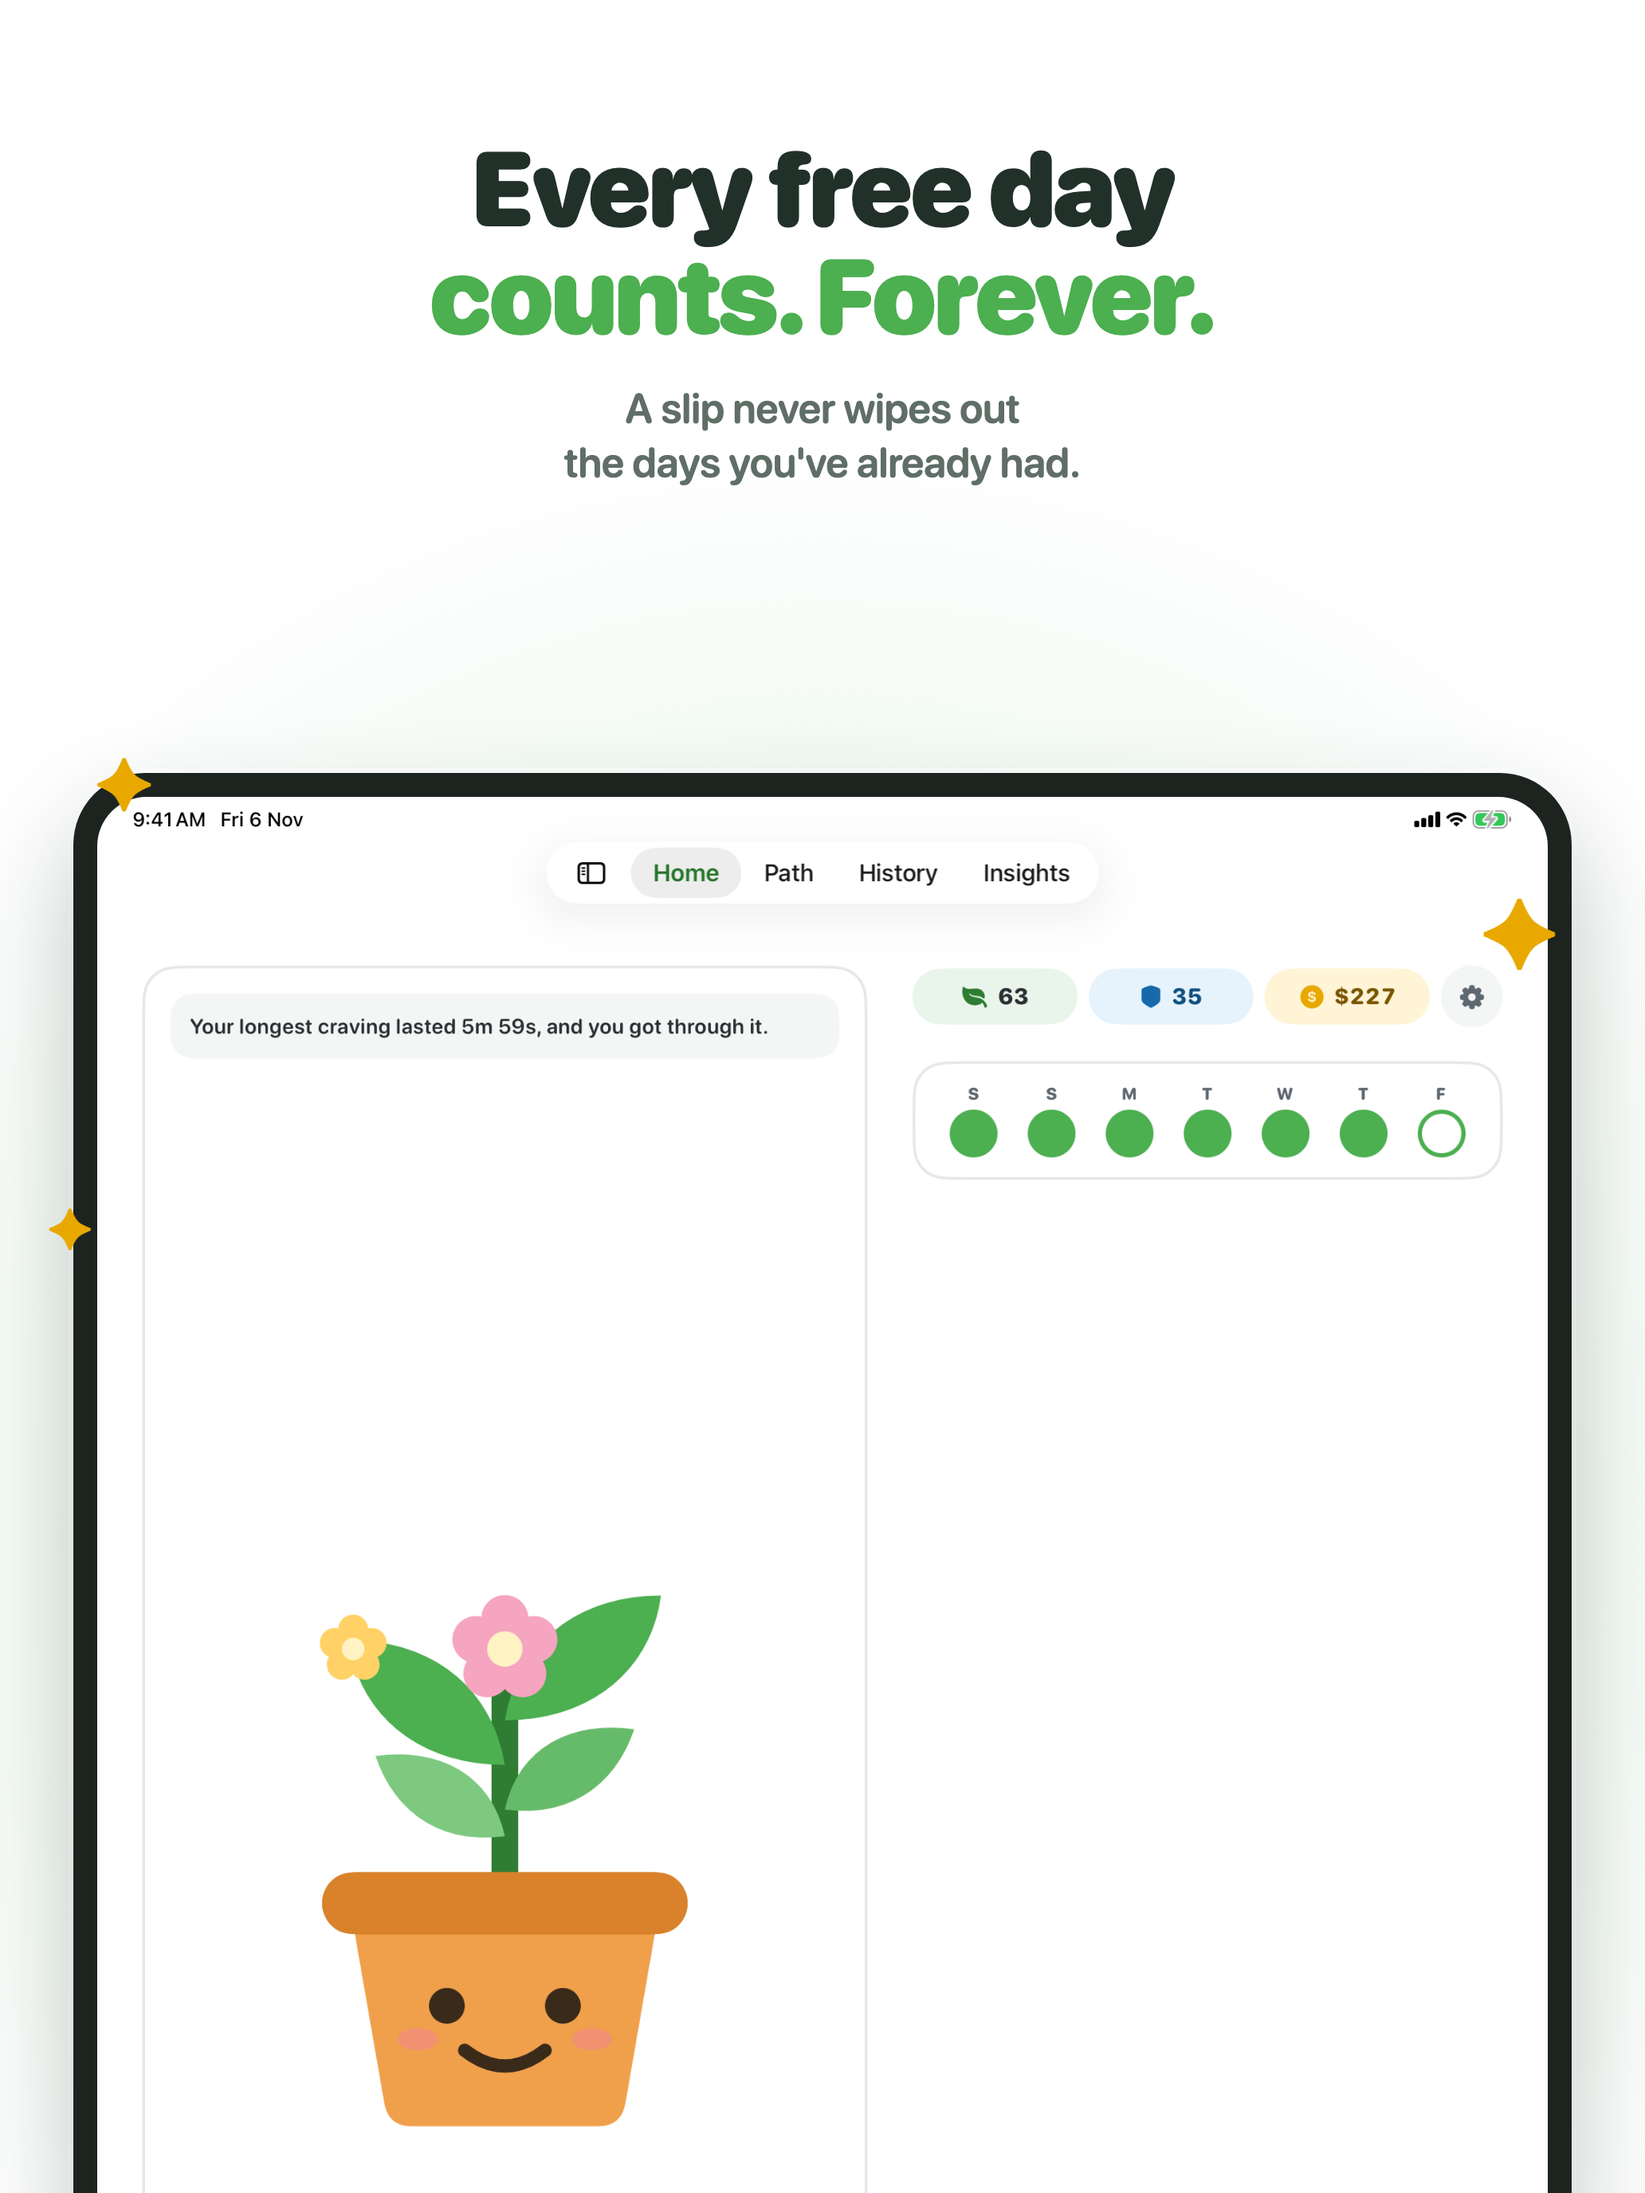
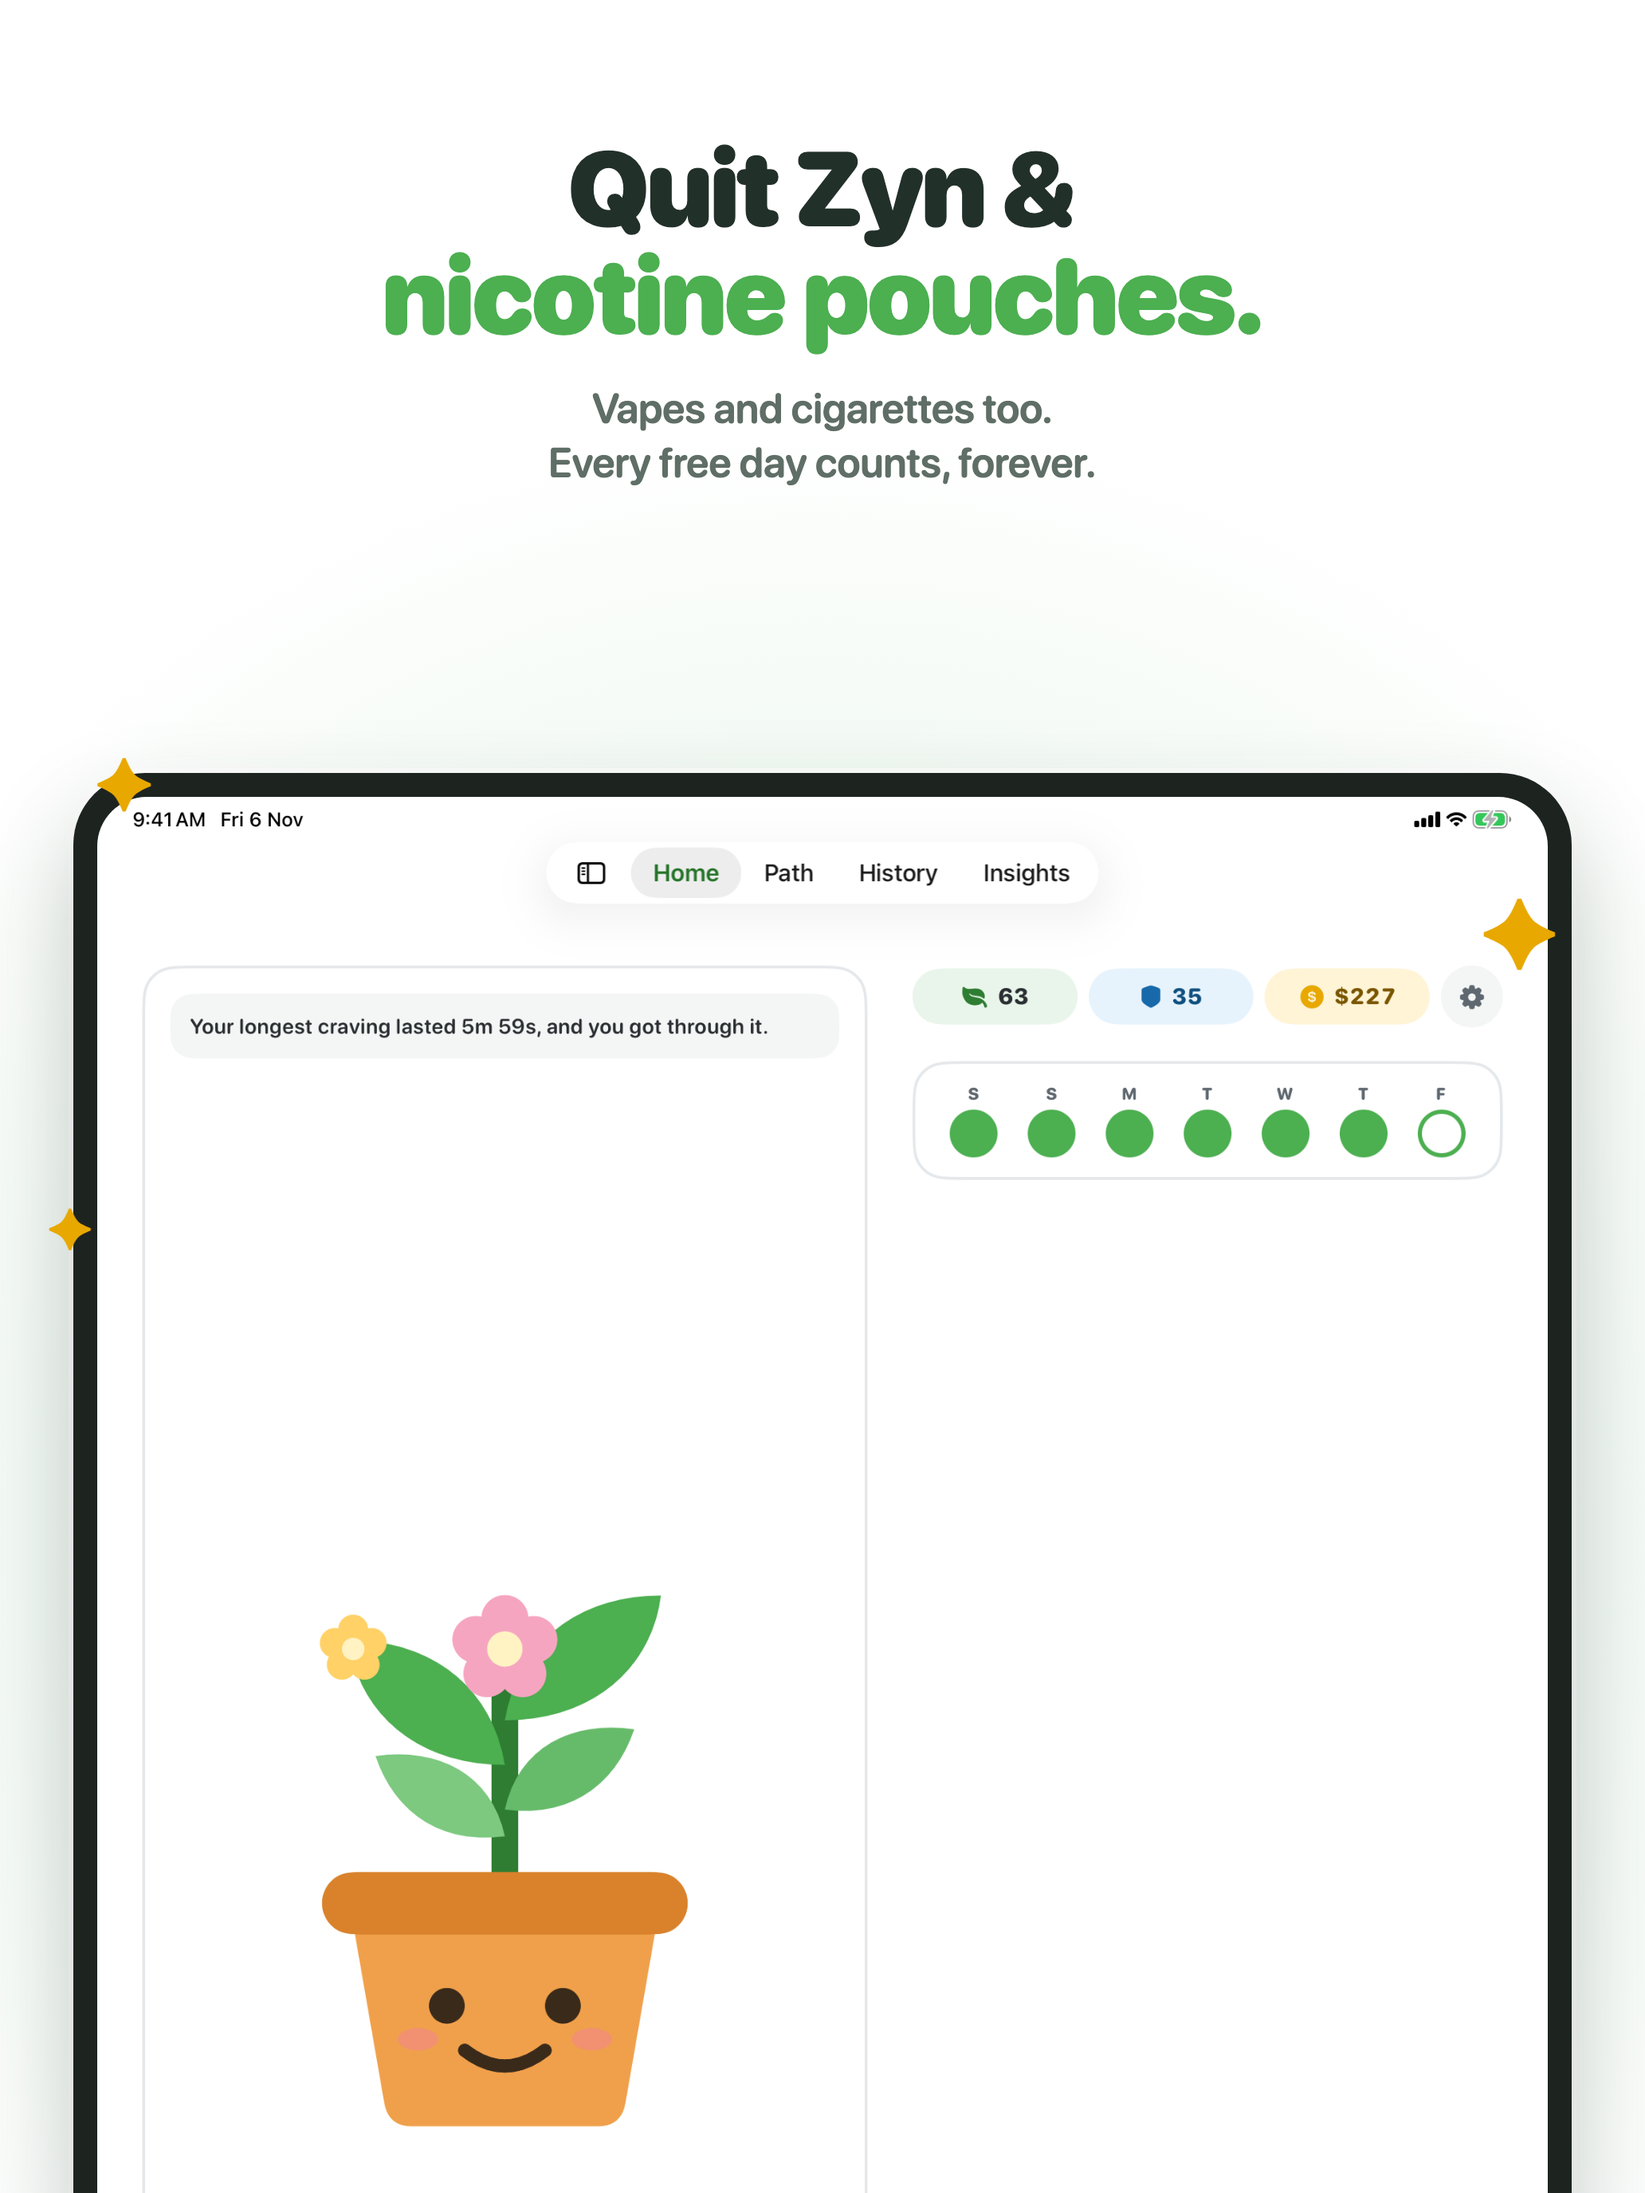
Screenshots: pouch-first captions, no subscription third, slip frame added
Frame 1 leads with Zyn and nicotine pouches to match the new name. One purchase, no
subscription moves into the first three, which search results show. The slip screen, the
app's clearest difference from streak counters, becomes frame 4. Seven frames, up from six.

Changed region(s): [[0.2171, 0.0625, 0.7752, 0.2188]]

diff --git a/screenshots/source/frames.html b/screenshots/source/frames.html
@@ -2,8 +2,8 @@
 <html><head><meta charset="utf-8">
 <!--
   NicFree App Store screenshots. One frame per render:
-    frames.html?f=1..6            iPhone, 1320 x 2868 (6.9"); render at 1206 x 2622 with zoom for 6.3"
-    frames.html?f=1..6&d=ipad     iPad, 2064 x 2752 (13")
+    frames.html?f=1..7            iPhone, 1320 x 2868 (6.9"); render at 1206 x 2622 with zoom for 6.3"
+    frames.html?f=1..7&d=ipad     iPad, 2064 x 2752 (13")
   Captures come from tools/screenshots.sh (cap/iphone-*.png, cap/ipad-*.png); art from
   tools/store-art.sh (art/*.png). Rendered with headless Chrome by tools/store-frames.sh.
 -->
@@ -41,11 +41,11 @@
 </style></head>
 <body>
 
-<!-- 1. The hero number -->
+<!-- 1. Pouch first: matches the search, then the promise -->
 <div class="frame" id="f1" style="background:radial-gradient(circle at 50% 70%, #DDF3E2 0, #EEF8F0 36%, #FFFFFF 64%);">
   <div class="head">
-    <h1>Every free day<br><em>counts. Forever.</em></h1>
-    <div class="sub">A slip never wipes out<br>the days you've already had.</div>
+    <h1>Quit Zyn &amp;<br><em>nicotine pouches.</em></h1>
+    <div class="sub">Vapes and cigarettes too.<br>Every free day counts, forever.</div>
   </div>
   <div class="phone" style="top:1010px;"><img src="cap/PREFIX-01-home.png"></div>
   <span class="spark" style="top:930px; left:120px;">✦</span>
@@ -62,8 +62,35 @@
   <div class="phone" style="top:1010px;"><img src="cap/PREFIX-02-craving.png"></div>
 </div>
 
-<!-- 3. The sprout grows -->
-<div class="frame" id="f3" style="background:radial-gradient(circle at 50% 46%, #DDF3E2 0, #EEF8F0 40%, #FFFFFF 75%);">
+<!-- 3. One purchase, no subscription: in the first three, where search results show it -->
+<div class="frame" id="f3" style="background:linear-gradient(180deg, #17301F 0%, #1F4029 100%); color:#fff;">
+  <div class="head">
+    <h1 style="color:#fff;">One purchase.<br><em style="color:#8FD694;">No subscription.</em></h1>
+    <div class="sub" style="color:#BFD8C4;">The core app is free.<br>Everything stays on your phone.</div>
+  </div>
+  <div style="position:absolute; width:1000px; height:1000px; top:860px; left:50%; transform:translateX(-50%); border-radius:50%; background:radial-gradient(circle, rgba(242,193,75,.35) 0, rgba(242,193,75,0) 65%);"></div>
+  <img class="art" src="art/sprout-365.png" style="width:760px; top:900px; left:50%; transform:translateX(-50%); filter:drop-shadow(0 40px 60px rgba(0,0,0,.35));">
+  <div class="card histcard" style="top:1760px; left:62px; width:1196px; height:520px; box-shadow:0 50px 100px rgba(0,0,0,.35);">
+    <img src="cap/PREFIX-05-history.png" class="histimg" style="width:1320px; margin:-430px 0 0 -62px;">
+  </div>
+  <div style="position:absolute; top:2420px; left:0; right:0; display:flex; justify-content:center; gap:28px; z-index:4;">
+    <div class="pill" style="background:#2A5236; color:#fff; box-shadow:none;">No account</div>
+    <div class="pill" style="background:#2A5236; color:#fff; box-shadow:none;">No tracking</div>
+    <div class="pill" style="background:#2A5236; color:#fff; box-shadow:none;">No ads</div>
+  </div>
+</div>
+
+<!-- 4. A slip keeps every free day already had -->
+<div class="frame" id="f4" style="background:radial-gradient(circle at 50% 70%, #F6EDE6 0, #FBF6F2 40%, #FFFFFF 70%);">
+  <div class="head">
+    <h1>Slipped?<br><em>Free days stay.</em></h1>
+    <div class="sub">A slip adds a used day.<br>It never takes the ones you've had.</div>
+  </div>
+  <div class="phone" style="top:1010px;"><img src="cap/PREFIX-06-slip-unchanged.png"></div>
+</div>
+
+<!-- 5. The sprout grows -->
+<div class="frame" id="f5" style="background:radial-gradient(circle at 50% 46%, #DDF3E2 0, #EEF8F0 40%, #FFFFFF 75%);">
   <div class="head">
     <h1>Grow a sprout,<br><em>bloom by bloom.</em></h1>
     <div class="sub">New leaves, a bud, then flowers.<br>It never loses one.</div>
@@ -78,8 +105,8 @@
   <div class="phone stagephone" style="top:1620px;"><img src="cap/PREFIX-03-path.png"></div>
 </div>
 
-<!-- 4. Share a milestone -->
-<div class="frame" id="f4" style="background:radial-gradient(circle at 50% 62%, #FFF0C2 0, #FFF7E2 40%, #FFFFFF 72%);">
+<!-- 6. Share a milestone -->
+<div class="frame" id="f6" style="background:radial-gradient(circle at 50% 62%, #FFF0C2 0, #FFF7E2 40%, #FFFFFF 72%);">
   <div class="head">
     <h1>Hit a milestone?<br><em style="color:var(--sun);">Share it.</em></h1>
     <div class="sub">A card for every milestone,<br>made to send to a friend.</div>
@@ -92,31 +119,13 @@
   <span class="spark" style="top:1900px; right:100px; font-size:90px;">✦</span>
 </div>
 
-<!-- 5. Insights -->
-<div class="frame" id="f5" style="background:linear-gradient(180deg, #F3F6F4 0%, #E6EFE9 100%);">
+<!-- 7. Insights -->
+<div class="frame" id="f7" style="background:linear-gradient(180deg, #F3F6F4 0%, #E6EFE9 100%);">
   <div class="head">
     <h1>Know your<br><em>triggers.</em></h1>
     <div class="sub">See what sets off your cravings,<br>and when they show up.</div>
   </div>
   <div class="phone" style="top:1010px;"><img src="cap/PREFIX-04-insights.png"></div>
-</div>
-
-<!-- 6. Private, no subscription -->
-<div class="frame" id="f6" style="background:linear-gradient(180deg, #17301F 0%, #1F4029 100%); color:#fff;">
-  <div class="head">
-    <h1 style="color:#fff;">Yours alone.<br><em style="color:#8FD694;">No subscription.</em></h1>
-    <div class="sub" style="color:#BFD8C4;">Everything stays on your phone.<br>One purchase unlocks the rest.</div>
-  </div>
-  <div style="position:absolute; width:1000px; height:1000px; top:860px; left:50%; transform:translateX(-50%); border-radius:50%; background:radial-gradient(circle, rgba(242,193,75,.35) 0, rgba(242,193,75,0) 65%);"></div>
-  <img class="art" src="art/sprout-365.png" style="width:760px; top:900px; left:50%; transform:translateX(-50%); filter:drop-shadow(0 40px 60px rgba(0,0,0,.35));">
-  <div class="card histcard" style="top:1760px; left:62px; width:1196px; height:520px; box-shadow:0 50px 100px rgba(0,0,0,.35);">
-    <img src="cap/PREFIX-05-history.png" class="histimg" style="width:1320px; margin:-430px 0 0 -62px;">
-  </div>
-  <div style="position:absolute; top:2420px; left:0; right:0; display:flex; justify-content:center; gap:28px; z-index:4;">
-    <div class="pill" style="background:#2A5236; color:#fff; box-shadow:none;">No account</div>
-    <div class="pill" style="background:#2A5236; color:#fff; box-shadow:none;">No tracking</div>
-    <div class="pill" style="background:#2A5236; color:#fff; box-shadow:none;">No ads</div>
-  </div>
 </div>
 
 <script>
